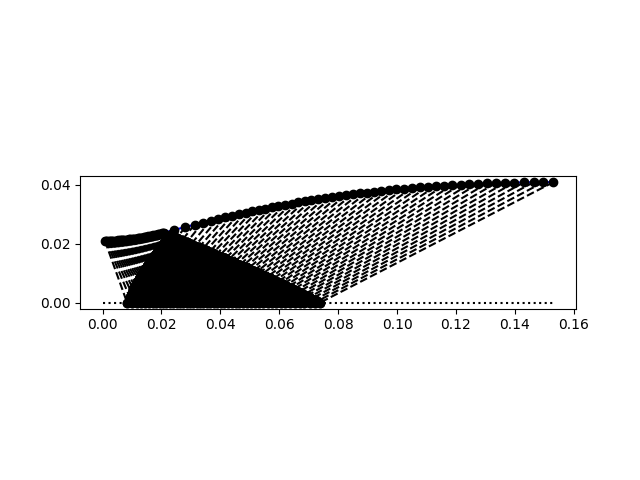
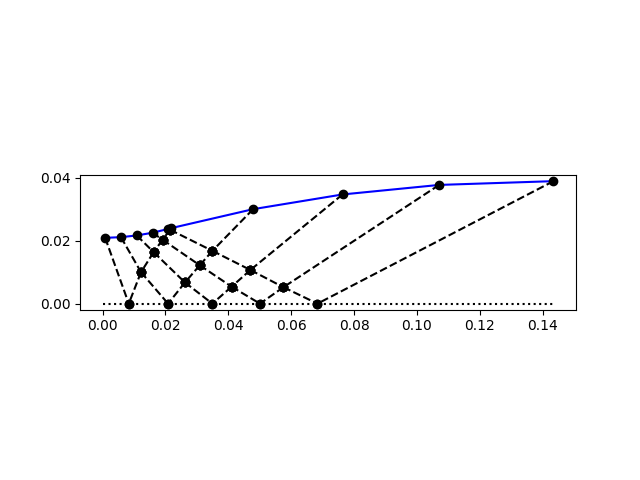
ajouts

Changed region(s): [[0.0625, 0.3438, 0.9375, 0.6875], [0.0625, 0.4688, 0.125, 0.5312]]

diff --git a/sources/NodeAxi.py b/sources/NodeAxi.py
@@ -51,7 +51,7 @@ class Node:
         }
 
     def recalculate(self):
-        self.mach = HallFunction(self.nu)
+        #self.mach = HallFunction(self.nu)
         self.mu = asin(1/self.mach)
         self.Km = self.thet+self.nu
         self.Kp = self.thet-self.nu
@@ -138,11 +138,13 @@ class Node:
             print('m_3 =',m_3)
             print('mu_3 =',mu_3)
             #Premiere convergence de x_3
+            print('x_3 =',x_3)
             x_3 = (r_2-r_1+tan(thet_1-mu_1)*x_1-tan(thet_2+mu_2)*x_2)/(tan(thet_1-mu_1)-tan(thet_2+mu_2))
             print('x_3 =',x_3)
 
             #premiere convergence de r_3
             r_3 = r_1 +(x_3-x_1)*tan(thet_1-mu_1)
+            r_3 = r_2 + (x_3-x_2)*tan(thet_2+mu_2)
             print('r_3 =',r_3)
             delta[0]=(previous_step[0]-thet_3)/previous_step[0]
             delta[1]=(previous_step[1]-nu_3)/previous_step[1]
@@ -157,54 +159,36 @@ class Node:
 
     def findAxis(self,wall,xlim,ylim,limit=False):
         #Cette méthode trouve la position de l'intersection d'une caractéristique avec l'axe de la tuyère
-        ywall =  wall.y + wall.c*(self.x-wall.x)
-        if limit == False : limit = xlim
-        if self.y > wall.y + wall.c*(self.x-wall.x):
-            a = self.CmSlope
-            b = self.y - a*self.x
-            c = wall.c
-            d = wall.y - c*wall.x
-            if a != c and b != d :
-                x = (d-b)/(a-c)
-                y = round(a*x+b,5)
-                if self.x <= x <= xlim and 0 <= y < ylim:
-                    nu = self.Km
-                    M = HallFunction(nu)
-                    return Node(x,y,0,M)
-        elif self.y < wall.y + wall.c*(self.x-wall.x):
-            a = self.CpSlope
-            b = self.y - a*self.x
-            c = wall.c
-            d = wall.y - c*wall.x
-            if a != c and b != d :
-                x = (d-b)/(a-c)
-                y = round(a*x+b,5)
-                if self.x <= x <= limit and 0 <= y <= ylim:
-                    theta = atan(wall.c)
-                    nu = theta - self.Kp
-                    M = HallFunction(nu)
-                    return Node(x,y,theta,M)
-        return False
+      
+        x_1 = self.x
+        r_1 =self.y
+        thet_1 = self.thet
+        mu_1 = self.mu
+        nu_1 = self.nu
+        
+        x_2 = x_1-r_1/tan(thet_1-mu_1)
+        nu_2 = thet_1 + nu_1
+        m_2 = HallFunction(nu_2)
+        return Node(x_2,0,0,m_2)
 
 
 
     def findContour(self,wallList) :
         #Cette méthode calcule la position de l'intersection d'une caractéristique avec le contour de la tuyère
         targetWall = wallList[-1]
-        thet_intersect = self.thet
-        thet_contour = targetWall.thet
-        avg_slope = 0.5*( thet_contour + thet_intersect )
 
-        a = self.CpSlope
-        b = self.y - a*self.x
+        x_1=self.x
+        thet_1 = self.thet
+        mu_1 = self.mu
+        r_1 = self.y
 
-        c = tan(avg_slope)
-        d = targetWall.y - c*targetWall.x
+        x_m = targetWall.x
+        thet_m = targetWall.thet
+        r_m = targetWall.y
 
-        if a != c and b != d :
-            x = (d-b)/(a-c)
-            y = a*x+b
-        return Node(x,y,thet_intersect,self.mach)
+        x_2 = (x_1*tan(thet_1+mu_1)-x_m*tan(0.5*(thet_m+thet_1))+r_m-r_1)/(tan(thet_1+mu_1)-tan(0.5*(thet_m+thet_1)))
+        r_2 = tan(thet_1+mu_1)*(x_2-x_1)+r_1
+        return Node(x_2,r_2,thet_1,self.mach)
 
 
 
